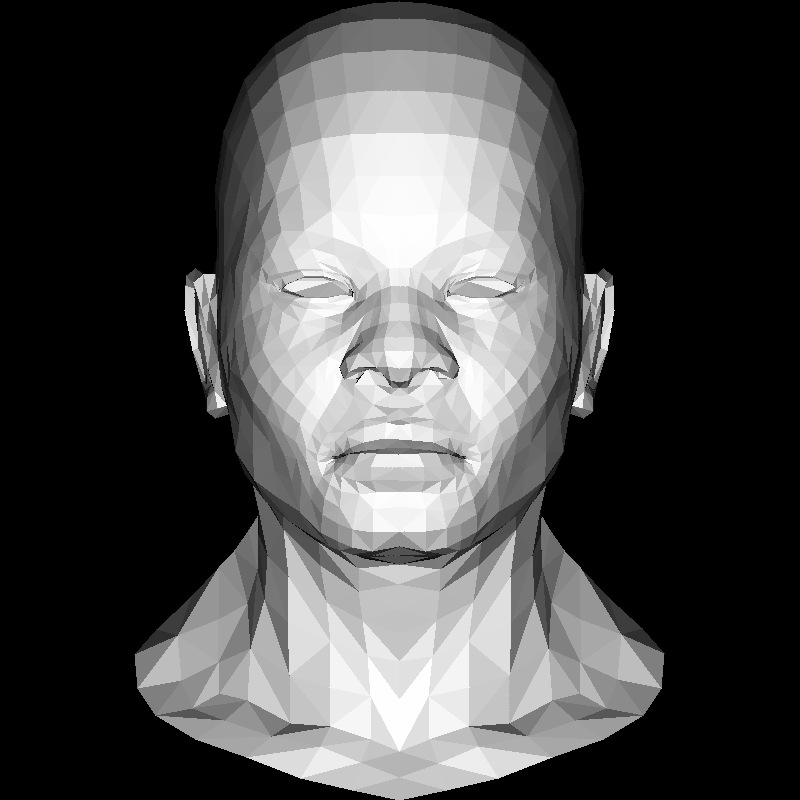
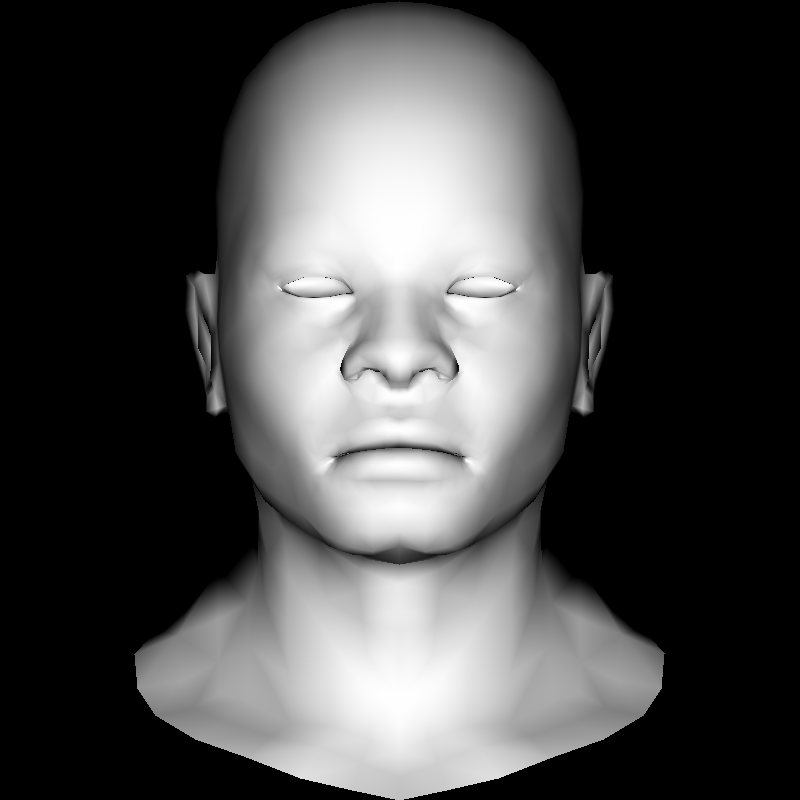
Calculating the brightness of the rasterized pixel by interpolating the vertices normals (barycentric again).

diff --git a/triangle.go b/triangle.go
@@ -39,18 +39,39 @@ func drawFilledTriangle(img *image.RGBA, v1, v2, v3 Point, c color.Color) {
 	}
 }
 
-func drawFilledTriangleZBuffer(img *image.RGBA, v1, v2, v3 Point, zBuffer []float64, face Face, c color.Color) {
+func drawFilledTriangleZBuffer(img *image.RGBA, v1, v2, v3 Point, zBuffer []float64, face Face) {
 	width := img.Bounds().Dx()
+
+	lightSource := Vertex{0, 0, 1}
 
 	min, max := boundingBox(v1, v2, v3)
 	for x := min.X; x <= max.X; x++ {
 		for y := min.Y; y <= max.Y; y++ {
 			if pointInTriangle(Point{x, y}, v1, v2, v3) {
 				w1, w2, w3 := barycentric(Point{x,y}, v1, v2, v3)
+
+				// Interpolate Z based on barycentric weights
 				z := w1 * face.Vertices[0].Z + w2 * face.Vertices[1].Z + w3 * face.Vertices[2].Z
 
+				// Interpolate normal based on barycentric weights
+				normal := Vertex {
+					X: w1 * face.Normals[0].X + w2 * face.Normals[1].X + w3 * face.Normals[2].X,
+					Y: w1 * face.Normals[0].Y + w2 * face.Normals[1].Y + w3 * face.Normals[2].Y,
+					Z: w1 * face.Normals[0].Z + w2 * face.Normals[1].Z + w3 * face.Normals[2].Z,
+				}
+				normal.normalize(1.0)
+
+				// Calculate light intensity
+				intensity := normal.X * lightSource.X + normal.Y * lightSource.Y + normal.Z * lightSource.Z
+
+				if intensity < 0 {
+					continue
+				}
+
+				// Drawing according to Z-buffer
 				if zBuffer[width*y+x] < z {
 					zBuffer[width*y+x] = z
+					c := color.RGBA{R: uint8(intensity * 255), G: uint8(intensity * 255), B: uint8(intensity * 255), A: 255}
 					img.Set(x, y, c)
 				}
 			}

diff --git a/main.go b/main.go
@@ -37,7 +37,6 @@ func drawSolidShadingWithZBuffer(img *image.RGBA, obj *Obj) {
 	width := rect.Dx()
 	height := rect.Dy()
 
-	lightSource := Vertex{0, 0, -1}
 	zBuffer := make([]float64, width*height)
 	for i := 0; i < len(zBuffer); i++ {
 		zBuffer[i] = -1.0
@@ -56,15 +55,15 @@ func drawSolidShadingWithZBuffer(img *image.RGBA, obj *Obj) {
 			screenCoordinates[i].Y = int(y)
 		}
 
-		faceNormal := face.Normal()
-		faceNormal.normalize(1.0)
-		intensity := faceNormal.X * lightSource.X + faceNormal.Y * lightSource.Y + faceNormal.Z * lightSource.Z
-
-		// Back face culling if the intensity of the light is negative (light is coming from behind the face)
-		if intensity > 0 {
-			// drawFilledTriangle(img, screenCoordinates[0], screenCoordinates[1], screenCoordinates[2], color.RGBA{uint8(intensity * 255), uint8(intensity * 255), uint8(intensity * 255), 255})
-			drawFilledTriangleZBuffer(img, screenCoordinates[0], screenCoordinates[1], screenCoordinates[2], zBuffer, face, color.RGBA{uint8(intensity * 255), uint8(intensity * 255), uint8(intensity * 255), 255})
-		}
+		// drawFilledTriangle(img, screenCoordinates[0], screenCoordinates[1], screenCoordinates[2], color.RGBA{uint8(intensity * 255), uint8(intensity * 255), uint8(intensity * 255), 255})
+		drawFilledTriangleZBuffer(
+			img,
+			screenCoordinates[0],
+			screenCoordinates[1],
+			screenCoordinates[2],
+			zBuffer,
+			face,
+		)
 	}
 }
 
